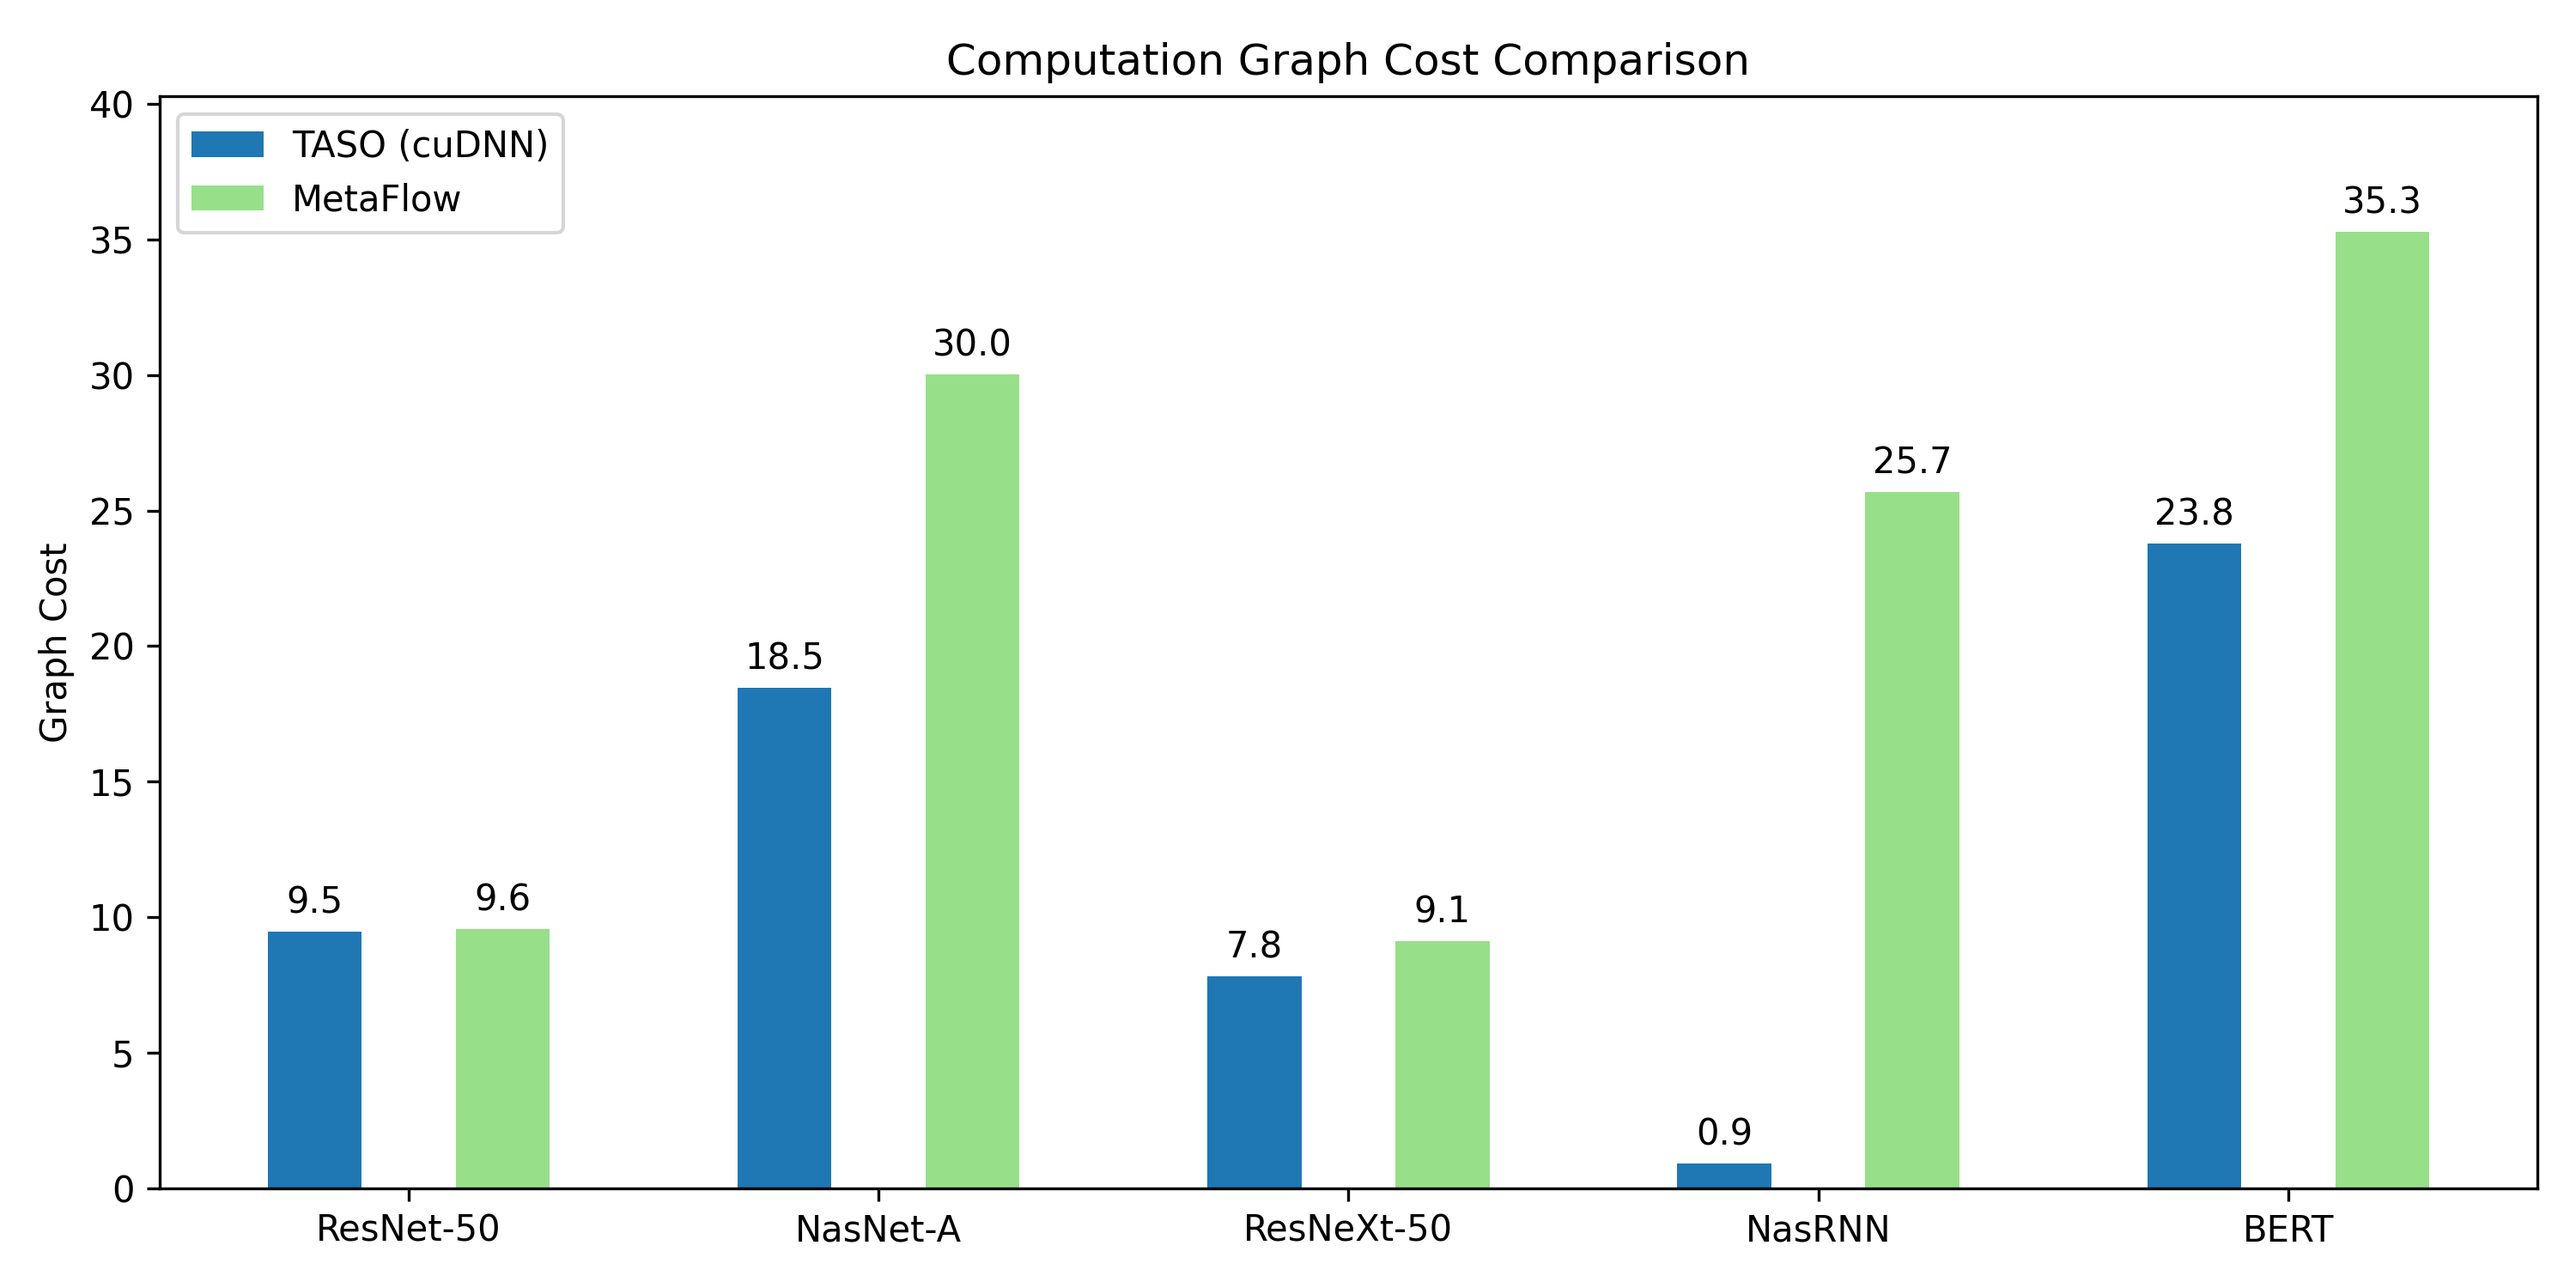
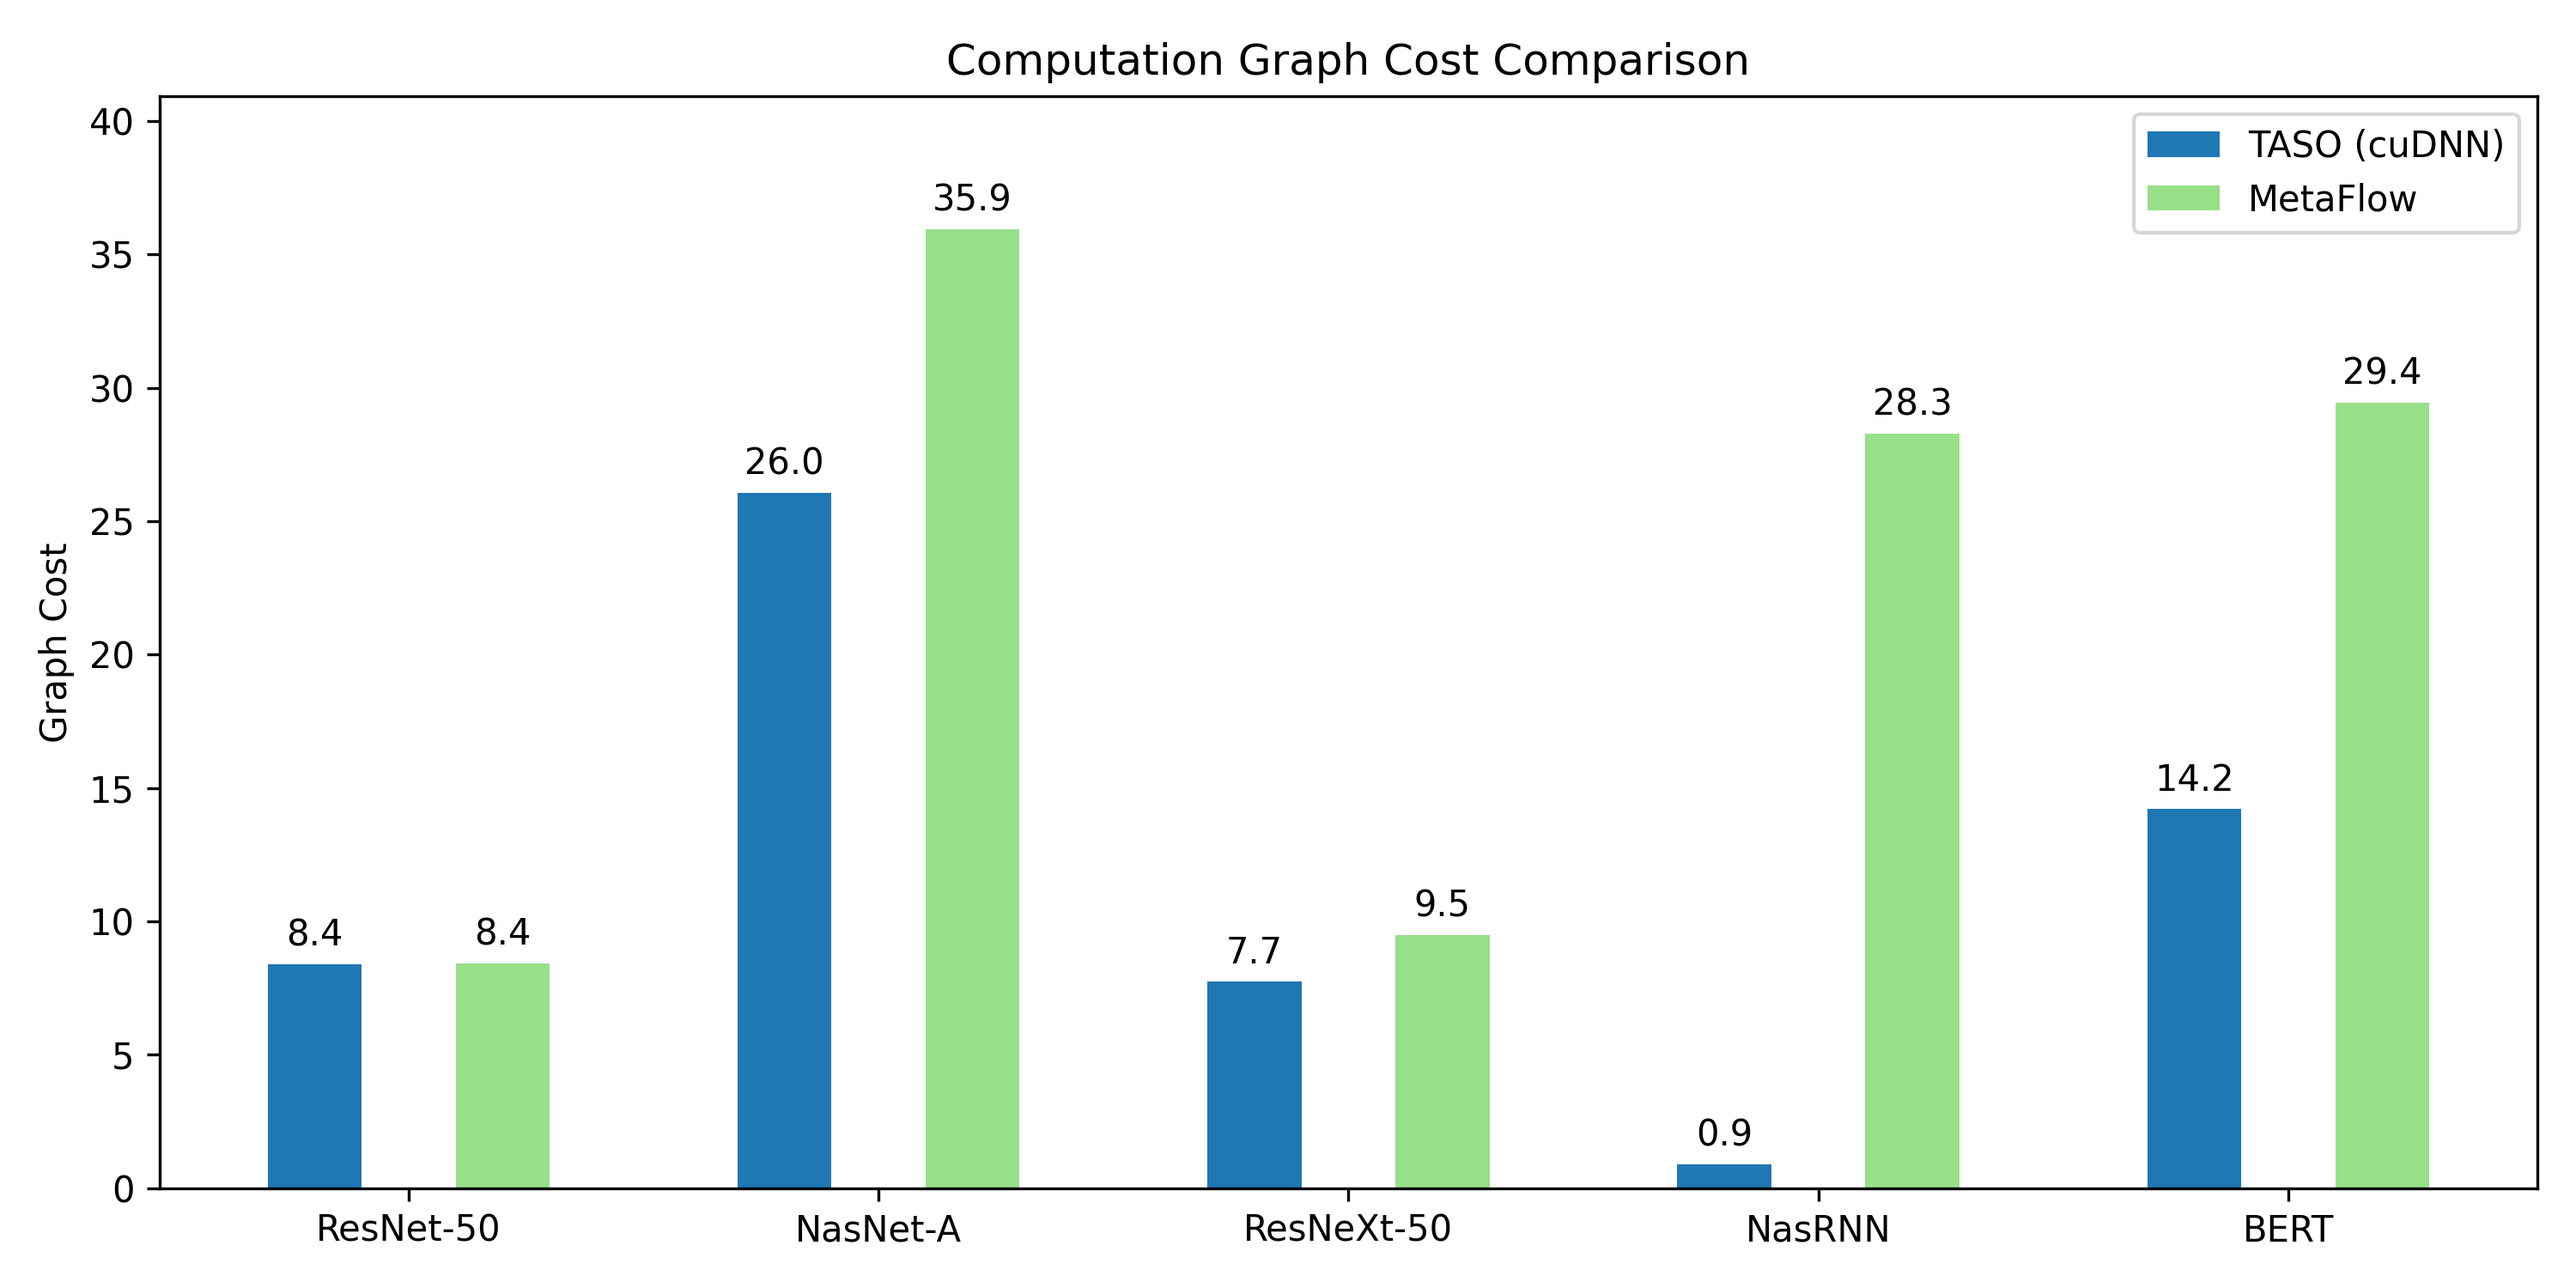
plot results

diff --git a/examples/plot_inference_times.py b/examples/plot_inference_times.py
@@ -4,34 +4,36 @@ import numpy as np
 # Inference times in milliseconds
 # Format: [TensorFlow, TensorFlow XLA, TASO w/ cuDNN, MetaFlow]
 inference_times = {
-    "ResNet-50":     [6.663, 5.156, 5.594, 6.533],
-    "NasNet-A":      [29.840, 24.386, 12.466, 14.671],
-    "ResNeXt-50":    [20.777, 10.402, 4.940, 5.696],
+    "ResNet-50":     [6.659, 5.156, 4.681, 4.859],
+    "NasNet-A":      [29.840, 24.386, 13.158, 14.074],
+    "ResNeXt-50":    [20.777, 10.402, 5.674, 5.593],
     "NasRNN":        [3.644, 1.299, 0.0, 1.038],
-    "BERT":          [4.054, 4.055, 13.819, 15.413],
+    "BERT":          [4.049, 4.055, 13.819, 15.413],
 }
 
 # Graph costs for TASO w/ cuDNN and MetaFlow
 # Format: [TASO w/ cuDNN, MetaFlow]
 graph_costs = {
-    "ResNet-50":     [9.460, 9.554],
-    "NasNet-A":      [18.469, 30.017],
-    "ResNeXt-50":    [7.803, 9.109],
-    "NasRNN":        [0.914, 25.674],
-    "BERT":          [23.787, 35.285],
+    "ResNet-50":     [8.392, 8.431],
+    "NasNet-A":      [26.049, 35.927],
+    "ResNeXt-50":    [7.747, 9.480],
+    "NasRNN":        [0.891, 28.275],
+    "BERT":          [14.211, 29.449],
 }
 
 labels = list(inference_times.keys())
-x = np.arange(len(labels))  # Bar locations
-width = 0.2  # Width of each bar
+x = np.arange(len(labels))
+width = 0.2
 
-# Prepare bar heights
 tf_times = [inference_times[m][0] for m in labels]
 xla_times = [inference_times[m][1] for m in labels]
 taso_times = [inference_times[m][2] for m in labels]
 meta_times = [inference_times[m][3] for m in labels]
 
+# -------------------------
 # Plot 1: Inference Time
+# -------------------------
+
 fig1, ax1 = plt.subplots(figsize=(10, 5))
 rects1 = ax1.bar(x - 1.5*width, tf_times, width, label='TensorFlow', color='#FF7F0E')
 rects2 = ax1.bar(x - 0.5*width, xla_times, width, label='TensorFlow XLA', color='#FFBB78')

diff --git a/examples/nasnet_a.py b/examples/nasnet_a.py
@@ -79,7 +79,7 @@ avg_cost_ts = np.zeros(10)
 avg_runtime_baseline = np.zeros(10)
 avg_cost_baseline = np.zeros(10)
 
-for i in range(10):
+for run in range(10):
     graph = ts.new_graph()
     input = graph.new_input(dims=(1,3,224,224))
     weight = graph.new_weight(dims=(64,3,7,7))
@@ -98,15 +98,15 @@ for i in range(10):
         out_channels *= 2
         input = reduction_cell(graph, prev, cur, out_channels)
         
-    avg_runtime_baseline[i] = graph.run_time()
-    avg_cost_baseline[i] = graph.cost()
+    avg_runtime_baseline[run] = graph.run_time()
+    avg_cost_baseline[run] = graph.cost()
     
     new_graph = ts.optimize(graph, alpha=1.05, budget=1000)
-    avg_runtime_ts[i] = new_graph.run_time()
-    avg_cost_ts[i] = new_graph.cost()
+    avg_runtime_ts[run] = new_graph.run_time()
+    avg_cost_ts[run] = new_graph.cost()
 
-    onnx_model = ts.export_onnx(new_graph)
-    onnx.checker.check_model(onnx_model)
+    #onnx_model = ts.export_onnx(new_graph)
+    #onnx.checker.check_model(onnx_model)
     #onnx.save(onnx_model, "nasneta_taso.onnx")
 
 graph_runtime = avg_runtime_baseline.mean()

diff --git a/examples/resnext50.py b/examples/resnext50.py
@@ -26,7 +26,7 @@ avg_cost_ts = np.zeros(10)
 avg_runtime_baseline = np.zeros(10)
 avg_cost_baseline = np.zeros(10)
 
-for i in range(10):
+for run in range(10):
     graph = ts.new_graph()
     input = graph.new_input(dims=(1,3,224,224))
     weight = graph.new_weight(dims=(64,3,7,7))
@@ -48,15 +48,15 @@ for i in range(10):
         t = resnext_block(graph, t, strides, 1024, 32)
         strides = (1,1)
 
-    avg_runtime_baseline[i] = graph.run_time()
-    avg_cost_baseline[i] = graph.cost()
+    avg_runtime_baseline[run] = graph.run_time()
+    avg_cost_baseline[run] = graph.cost()
     
     new_graph = ts.optimize(graph, alpha=1.05, budget=1000)
-    avg_runtime_ts[i] = new_graph.run_time()
-    avg_cost_ts[i] = new_graph.cost()
+    avg_runtime_ts[run] = new_graph.run_time()
+    avg_cost_ts[run] = new_graph.cost()
 
-    onnx_model = ts.export_onnx(new_graph)
-    onnx.checker.check_model(onnx_model)
+    #onnx_model = ts.export_onnx(new_graph)
+    #onnx.checker.check_model(onnx_model)
     #onnx.save(onnx_model, "resnext50_taso.onnx")
 
 graph_runtime = avg_runtime_baseline.mean()

diff --git a/examples/bert.py b/examples/bert.py
@@ -42,7 +42,7 @@ avg_cost_ts = np.zeros(10)
 avg_runtime_baseline = np.zeros(10)
 avg_cost_baseline = np.zeros(10)
 
-for i in range(10):
+for run in range(10):
     graph = ts.new_graph()
     input = graph.new_input(dims=(batch_size * seq_length, hidden_dims))
     input = graph.relu(input)
@@ -50,15 +50,15 @@ for i in range(10):
     for i in range(8):
         t = attention(graph, t, 16)
 
-    avg_runtime_baseline[i] = graph.run_time()
-    avg_cost_baseline[i] = graph.cost()
+    avg_runtime_baseline[run] = graph.run_time()
+    avg_cost_baseline[run] = graph.cost()
     
     new_graph = ts.optimize(graph, alpha=1.05, budget=1000)
-    avg_runtime_ts[i] = new_graph.run_time()
-    avg_cost_ts[i] = new_graph.cost()
+    avg_runtime_ts[run] = new_graph.run_time()
+    avg_cost_ts[run] = new_graph.cost()
 
-    onnx_model = ts.export_onnx(new_graph)
-    onnx.checker.check_model(onnx_model)
+    #onnx_model = ts.export_onnx(new_graph)
+    #onnx.checker.check_model(onnx_model)
     #onnx.save(onnx_model, "bert_taso.onnx")
 
 graph_runtime = avg_runtime_baseline.mean()

diff --git a/examples/resnet50.py b/examples/resnet50.py
@@ -26,7 +26,7 @@ avg_cost_ts = np.zeros(10)
 avg_runtime_baseline = np.zeros(10)
 avg_cost_baseline = np.zeros(10)
 
-for i in range(10):
+for run in range(10):
     graph = ts.new_graph()
     input = graph.new_input(dims=(1,64,56,56))
     t = input
@@ -45,15 +45,15 @@ for i in range(10):
         t = resnet_block(graph, t, strides, 512)
         strides = (1,1)
 
-    avg_runtime_baseline[i] = graph.run_time()
-    avg_cost_baseline[i] = graph.cost()
+    avg_runtime_baseline[run] = graph.run_time()
+    avg_cost_baseline[run] = graph.cost()
     
     new_graph = ts.optimize(graph, alpha=1.05, budget=1000)
-    avg_runtime_ts[i] = new_graph.run_time()
-    avg_cost_ts[i] = new_graph.cost()
+    avg_runtime_ts[run] = new_graph.run_time()
+    avg_cost_ts[run] = new_graph.cost()
 
-    onnx_model = ts.export_onnx(new_graph)
-    onnx.checker.check_model(onnx_model)
+    #onnx_model = ts.export_onnx(new_graph)
+    #onnx.checker.check_model(onnx_model)
     #onnx.save(onnx_model, "resnet50_taso.onnx")
 
 graph_runtime = avg_runtime_baseline.mean()

diff --git a/examples/nasrnn.py b/examples/nasrnn.py
@@ -29,7 +29,7 @@ avg_cost_ts = np.zeros(10)
 avg_runtime_baseline = np.zeros(10)
 avg_cost_baseline = np.zeros(10)
 
-for i in range(10):
+for run in range(10):
     graph = taso.new_graph()
     xs = list()
     for i in range(length):
@@ -38,15 +38,15 @@ for i in range(10):
     for i in range(length):
         state = nas_node(graph, state, xs[i])
 
-    avg_runtime_baseline[i] = graph.run_time()
-    avg_cost_baseline[i] = graph.cost()
+    avg_runtime_baseline[run] = graph.run_time()
+    avg_cost_baseline[run] = graph.cost()
     
     new_graph = taso.optimize(graph, alpha=1.05, budget=1000)
-    avg_runtime_ts[i] = new_graph.run_time()
-    avg_cost_ts[i] = new_graph.cost()
+    avg_runtime_ts[run] = new_graph.run_time()
+    avg_cost_ts[run] = new_graph.cost()
 
-    onnx_model = taso.export_onnx(new_graph)
-    onnx.checker.check_model(onnx_model)
+    #onnx_model = taso.export_onnx(new_graph)
+    #onnx.checker.check_model(onnx_model)
     #onnx.save(onnx_model, "nasrnn_taso.onnx")
 
 graph_runtime = avg_runtime_baseline.mean()
